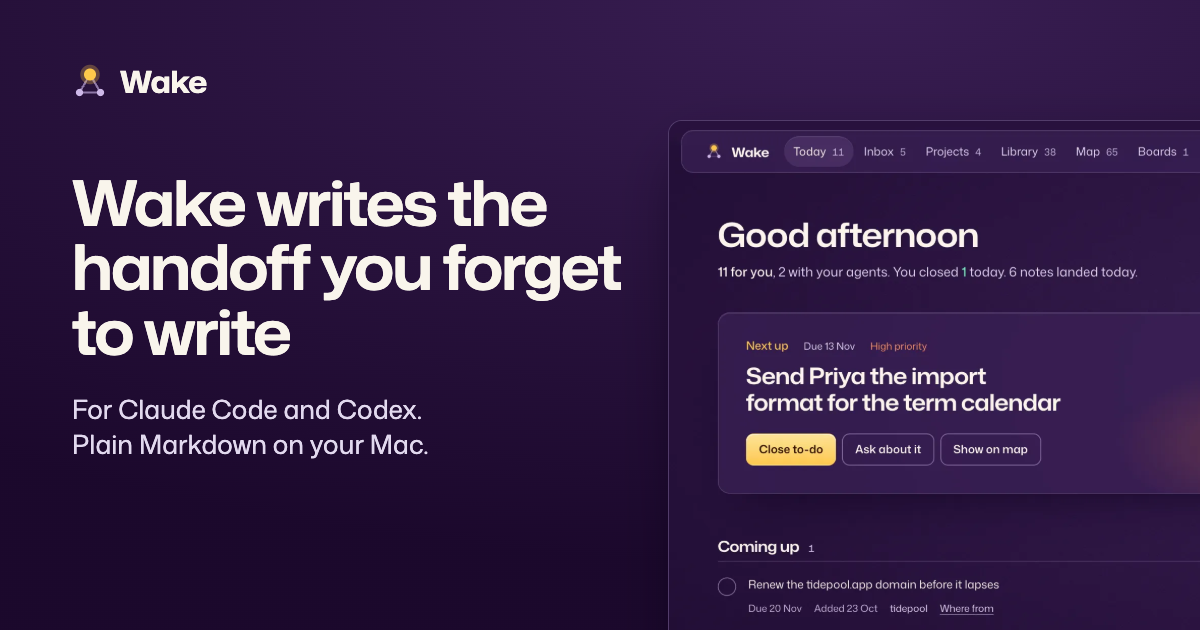
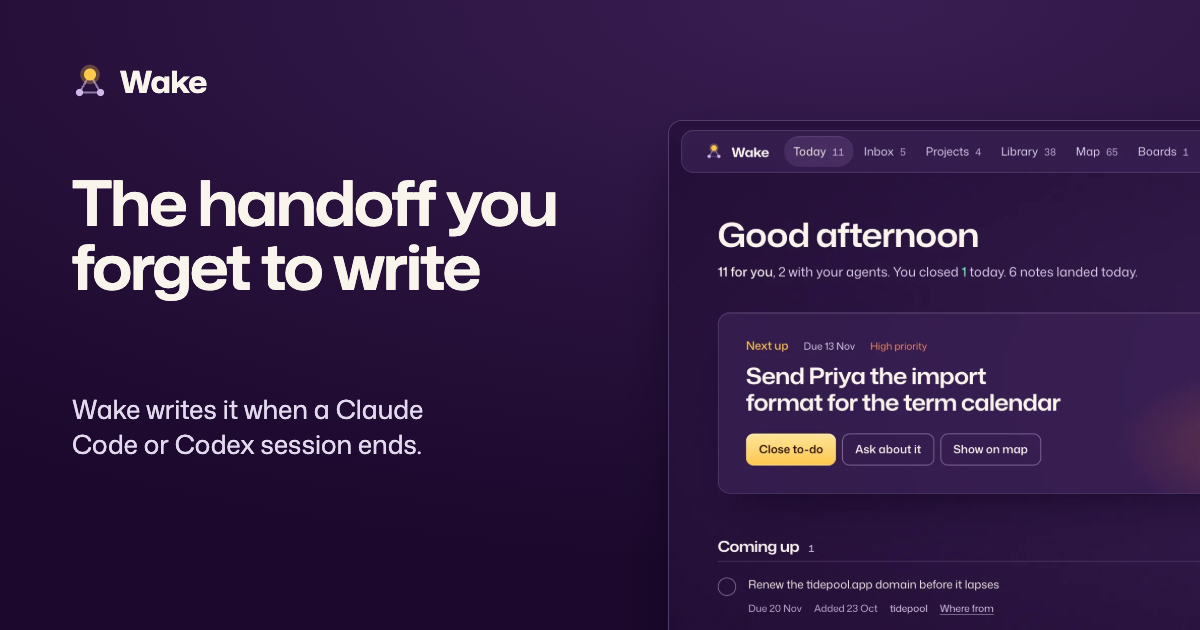
Lead with the handoff and the commit check; demo links; what Wake needs by the buy button; first-open steps; refund, updates and Mac-limit answers

Changed region(s): [[0.0617, 0.2714, 0.5242, 0.573], [0.0617, 0.6333, 0.37, 0.7238]]

diff --git a/index.html b/index.html
@@ -4,21 +4,21 @@
 <meta charset="utf-8">
 <meta name="viewport" content="width=device-width, initial-scale=1">
 <meta name="theme-color" content="#2a1840">
-<meta name="description" content="Wake writes down what you promise in each Claude Code or Codex session, then shows where it got done, even in another repo. Plain Markdown on your Mac.">
-<title>Wake: nothing you promise slips through</title>
+<meta name="description" content="When a Claude Code or Codex session ends, Wake writes down what was decided and what is still open. The next session in that repo starts with it. Plain Markdown on your Mac.">
+<title>Wake: the handoff you forget to write</title>
 <link rel="canonical" href="https://wakebrain.github.io/">
 <meta property="og:type" content="website">
 <meta property="og:site_name" content="Wake">
 <meta property="og:url" content="https://wakebrain.github.io/">
-<meta property="og:title" content="Wake: nothing you promise slips through">
-<meta property="og:description" content="Wake writes down what you promise in each Claude Code or Codex session, then shows where it got done, even in another repo. Plain Markdown on your Mac.">
+<meta property="og:title" content="Wake: the handoff you forget to write">
+<meta property="og:description" content="When a Claude Code or Codex session ends, Wake writes down what was decided and what is still open. The next session in that repo starts with it. Plain Markdown on your Mac.">
 <meta property="og:image" content="https://wakebrain.github.io/og.png">
 <meta property="og:image:width" content="1200">
 <meta property="og:image:height" content="630">
-<meta property="og:image:alt" content="Wake: nothing you promise slips through, with the Today screen of the app">
+<meta property="og:image:alt" content="Wake: the handoff you forget to write, above the Today screen of the app">
 <meta name="twitter:card" content="summary_large_image">
-<meta name="twitter:title" content="Wake: nothing you promise slips through">
-<meta name="twitter:description" content="Wake writes down what you promise in each Claude Code or Codex session, then shows where it got done, even in another repo. Plain Markdown on your Mac.">
+<meta name="twitter:title" content="Wake: the handoff you forget to write">
+<meta name="twitter:description" content="When a Claude Code or Codex session ends, Wake writes down what was decided and what is still open. The next session in that repo starts with it. Plain Markdown on your Mac.">
 <meta name="twitter:image" content="https://wakebrain.github.io/og.png">
 <link rel="preload" href="fonts/mona-sans.woff2" as="font" type="font/woff2" crossorigin>
 <link rel="stylesheet" href="landing.css?v=5">
@@ -36,7 +36,7 @@
     Wake
   </a>
   <nav aria-label="Page">
-    <a href="#app">The app</a>
+    <a href="demo/">Demo</a>
     <a href="#works">Integrations</a>
     <a href="#pricing">Pricing</a>
   </nav>
@@ -47,10 +47,10 @@
   <div class="mapbox" aria-hidden="true" data-fade="left"></div>
   <section class="hero" aria-labelledby="hero-h">
     <div class="hero-text" data-quiet>
-      <h1 id="hero-h">Nothing you promise slips through</h1>
-      <p class="hero-lede">Promise it in one repo, finish it in another, see the proof.</p>
-      <div class="acts"><a class="btn primary" href="https://buy.polar.sh/polar_cl_RY5sufCcn7mrCrFExtuwMNFq7HFmd3nYXogRp3LDhf8" data-buy>Buy Wake, $59</a><a class="btn" href="#app">See how it works</a></div>
-      <p class="hero-note">$59 once. One vault of plain Markdown on your Mac. Works with Claude Code, Codex, or both.</p>
+      <h1 id="hero-h">The handoff you forget to write</h1>
+      <p class="hero-lede">Wake writes it when a Claude Code or Codex session ends. The next session in that repo starts with it. An agent's to&#8209;do only closes when a commit landed.</p>
+      <div class="acts"><a class="btn primary" href="https://buy.polar.sh/polar_cl_RY5sufCcn7mrCrFExtuwMNFq7HFmd3nYXogRp3LDhf8" data-buy>Buy Wake, $59</a><a class="btn" href="demo/">Try the demo</a></div>
+      <p class="hero-note">$59 once. Needs a Mac and Claude Code or Codex. The demo runs in your browser on invented notes.</p>
     </div>
     <figure class="stage" data-quiet>
       <img fetchpriority="high" id="stage-img" data-shot="today" src="img/app/dusk/today.webp" width="2160" height="1350" alt="Wake's Today screen: the next to-do, what is coming up and what is with your agents, beside the map of your notes">
@@ -72,10 +72,10 @@
       <h2 id="story-h">One promise, two repos</h2>
       <ol class="demo" id="demo">
         <li><h3>Monday, in website</h3><p>You promise your agent the pricing page. Wake writes a to-do.</p><p class="todo"><i aria-hidden="true"></i>Add the pricing page</p></li>
-        <li><h3>Wednesday, in checkout</h3><p>You open a session in another repo. It already sees that to-do.</p><p class="todo"><i aria-hidden="true"></i>Add the pricing page</p></li>
-        <li><h3>Done</h3><p>That session ships it, and Wake ticks it off with a receipt.</p><p class="todo"><i aria-hidden="true"></i>Add the pricing page</p></li>
+        <li><h3>Wednesday, in checkout</h3><p>A session in another repo builds the page and commits it.</p><p class="todo"><i aria-hidden="true"></i>Add the pricing page</p></li>
+        <li><h3>Done</h3><p>When that session ends, Wake matches the work to the to-do, ticks it off and writes a receipt.</p><p class="todo"><i aria-hidden="true"></i>Add the pricing page</p></li>
       </ol>
-      <p class="receipt"><b>Done: add the pricing page</b> <span>promised Mon in website → done Wed in checkout, session “Pricing page”</span></p>
+      <p class="receipt"><b>Done: add the pricing page</b> <span>promised Mon in website → done Wed in checkout, session “Pricing page”, commit 4f2a91c</span></p>
       <button type="button" class="replay" id="replay" hidden>Play it again</button>
     </div>
     <figure class="proof">
@@ -106,7 +106,7 @@
     <div class="split">
       <div class="split-text">
         <h3>Agents do, you do</h3>
-        <p>Every to-do says who does it. Hand one to your agents and the next session picks it up. Take it back with one click.</p>
+        <p>Every to-do says who does it, and it is yours unless you hand it over. An agent's to-do only counts as done when the session that did it made a commit. The receipt keeps the hash. Take it back with one click.</p>
       </div>
       <div class="handoff" aria-hidden="true">
         <p class="row"><i class="tick"></i><span><b>Send Priya the import format</b><small>Due 13 Nov, for you</small></span><em>Hand to agents</em></p>
@@ -135,7 +135,7 @@
   <section class="how" aria-labelledby="how-h">
     <div class="how-text">
       <h2 id="how-h">It fills itself</h2>
-      <p>A finished session becomes a note, and the note updates the to-dos and decisions every agent reads next.</p>
+      <p>A hook runs when a session ends, so the note gets written whether or not anyone remembers. A new session starts with that repo's open to-dos, up to 12, and its last 5 decisions. Finished to-dos leave the list, so it stays short.</p>
       <p class="note">A note costs about 12,000 Haiku tokens in and 2,000 out for a typical session, and up to about 30,000 in for a long one, on your own Claude plan.</p>
     </div>
     <div class="diagram" role="img" aria-label="A finished Claude Code or Codex session becomes one Haiku note in your vault, which updates the to-dos and decisions every agent reads. Meetings and your calendar feed the same vault and a morning brief.">
@@ -214,10 +214,10 @@
   <section class="needs" aria-labelledby="needs-h">
     <h2 id="needs-h">What it needs</h2>
     <dl>
-      <div><dt>A Mac</dt><dd>macOS with Python 3.9 or newer.</dd></div>
+      <div><dt>A Mac</dt><dd>macOS 12 or newer, with Python 3.9 or newer.</dd></div>
       <div><dt>Claude Code or Codex</dt><dd>Notes are written through your own Claude Code sign-in, or through Codex. No API key. Both agents read the same to-dos and decisions.</dd></div>
       <div><dt>Connectors</dt><dd>Optional, and off until you turn them on. See <a href="#works">integrations</a>.</dd></div>
-      <div><dt>First open</dt><dd>Wake is a direct download. The first time, macOS says it cannot check it: press Done, open System Settings, Privacy and Security, and press Open Anyway. On macOS 14 and earlier, right-click Wake and choose Open.</dd></div>
+      <div id="first-open"><dt>First open</dt><dd>Wake is a direct download, so macOS asks before it opens it. You do this once. Open Wake and press Done on the warning. Then open System Settings, Privacy &amp; Security, scroll down to Security and press Open Anyway. On macOS 14 and earlier, right-click Wake and choose Open. One line in Terminal does the same: <code>xattr -dr com.apple.quarantine /Applications/Wake.app</code>. The steps are also in the download and in your receipt.</dd></div>
     </dl>
   </section>
 
@@ -229,13 +229,14 @@
         <p class="price">$59 <span>once, a year of updates</span></p>
         <ul>
           <li>The whole app: today, inbox, projects, library, map, boards, decisions</li>
-          <li>Every agent sees your to-dos and decisions, in every repo</li>
+          <li>A note for every finished session, written when it ends</li>
+          <li>Each new session starts with its repo's open to-dos and last decisions</li>
           <li>Meetings and calendar in your vault, and a morning brief</li>
-          <li>Agents tick off to-dos when they finish them, with proof</li>
+          <li>An agent's to-do closes only when a commit landed, with a receipt</li>
           <li>Ask your brain, and web research</li>
         </ul>
         <a class="btn primary" href="https://buy.polar.sh/polar_cl_RY5sufCcn7mrCrFExtuwMNFq7HFmd3nYXogRp3LDhf8" data-buy>Buy Wake, $59</a>
-        <p class="fine">Pay once, download right away. Your licence key comes by email.</p>
+        <p class="fine">Pay once, download right away. Your licence key comes by email and works on 2 Macs. Needs macOS and Claude Code or Codex. <a href="#first-open">Opening it the first time</a> takes one extra step. Not sure yet? <a href="demo/">Try the demo</a>.</p>
       </div>
       <div class="plan">
         <h3>Wake + sync <span class="coming">Coming</span></h3>
@@ -306,14 +307,30 @@
         <summary>And with Super Brain?</summary>
         <p>With Super Brain your notes stay on your own devices. Your phone, and each person you invite, reads straight from your Mac, encrypted the whole way, so no one in between can read your notes. Every request is checked on your Mac. Disconnect a phone in Settings and it is out on its next request.</p>
       </details>
+      <details>
+        <summary>Can I try it before I pay?</summary>
+        <p>Yes. The <a href="demo/">demo</a> is the real app in your browser, on invented notes. It is read-only, so nothing you do there is saved.</p>
+      </details>
+      <details>
+        <summary>How many Macs can I use it on?</summary>
+        <p>Two. To move Wake to another Mac, press Deactivate this Mac in Settings on the old one, then enter your key on the new one.</p>
+      </details>
+      <details>
+        <summary>How do updates arrive?</summary>
+        <p>You get a year of updates. Download the newest Wake from your <a href="https://polar.sh/wakebrain/portal">Polar purchases page</a> and drag it over the old one. Wake does not check for updates or install them by itself.</p>
+      </details>
+      <details>
+        <summary>Can I get a refund?</summary>
+        <p>Yes, within 14 days of buying. Email <a href="mailto:wakebrain.app@gmail.com">wakebrain.app@gmail.com</a> and you get your money back.</p>
+      </details>
     </div>
   </section>
 </main>
 
 <footer class="foot">
   <p class="mark">Wake</p>
-  <div><a href="#app">The app</a><a href="#works">Integrations</a><a href="#pricing">Pricing</a><a href="#waitlist">Waitlist</a></div>
-  <div><p>Questions, a lost key, a bug</p><a href="mailto:wakebrain.app@gmail.com">wakebrain.app@gmail.com</a></div>
+  <div><a href="demo/">Demo</a><a href="#app">The app</a><a href="#works">Integrations</a><a href="#pricing">Pricing</a><a href="#waitlist">Waitlist</a></div>
+  <div><p>Questions, a lost key, a bug</p><a href="mailto:wakebrain.app@gmail.com">wakebrain.app@gmail.com</a><p>$59 once plus local tax, sold through Polar. Refund within 14 days of buying: email us.</p></div>
 </footer>
 <script src="graph.js"></script>
 <script src="ember-engine.js"></script>

diff --git a/landing.css b/landing.css
@@ -45,7 +45,7 @@ main > section + section { margin-top: var(--section); }
 .hero { padding-top: clamp(56px, 8vw, 112px); }
 .hero-text { max-width: 640px; }
 .hero h1 { max-width: 11ch; font-size: var(--text-hero); line-height: 0.98; letter-spacing: -0.034em; }
-.hero-lede { margin-top: var(--space-lg); max-width: 30ch; font-size: clamp(1.2rem, 1vw + 0.9rem, 1.5rem); line-height: 1.35; color: var(--color-ink-2); }
+.hero-lede { margin-top: var(--space-lg); max-width: 34ch; font-size: clamp(1.2rem, 1vw + 0.9rem, 1.5rem); line-height: 1.35; color: var(--color-ink-2); }
 .hero .acts { display: flex; flex-wrap: wrap; gap: var(--space-sm); margin-top: var(--space-xl); }
 .hero .btn { min-height: 54px; padding: 0 28px; }
 .hero-note { margin-top: var(--space-md); max-width: 44ch; font-size: var(--text-sm); color: var(--color-muted); }
@@ -173,6 +173,7 @@ main > section.works { max-width: none; padding: var(--space-3xl) var(--gutter);
 .needs dl div { padding-top: var(--space-md); border-top: 1px solid var(--color-rule-2); }
 .needs dt { font-weight: 600; font-size: var(--text-lg); }
 .needs dd { margin: var(--space-xs) 0 0; font-size: 0.9375rem; color: var(--color-ink-2); }
+.needs code { font: 0.8125rem var(--font-mono); overflow-wrap: anywhere; }
 
 .pricing h2 { margin-bottom: var(--space-xl); }
 .plans { display: grid; grid-template-columns: minmax(0, 6fr) minmax(0, 5fr); gap: var(--space-lg); align-items: start; }
